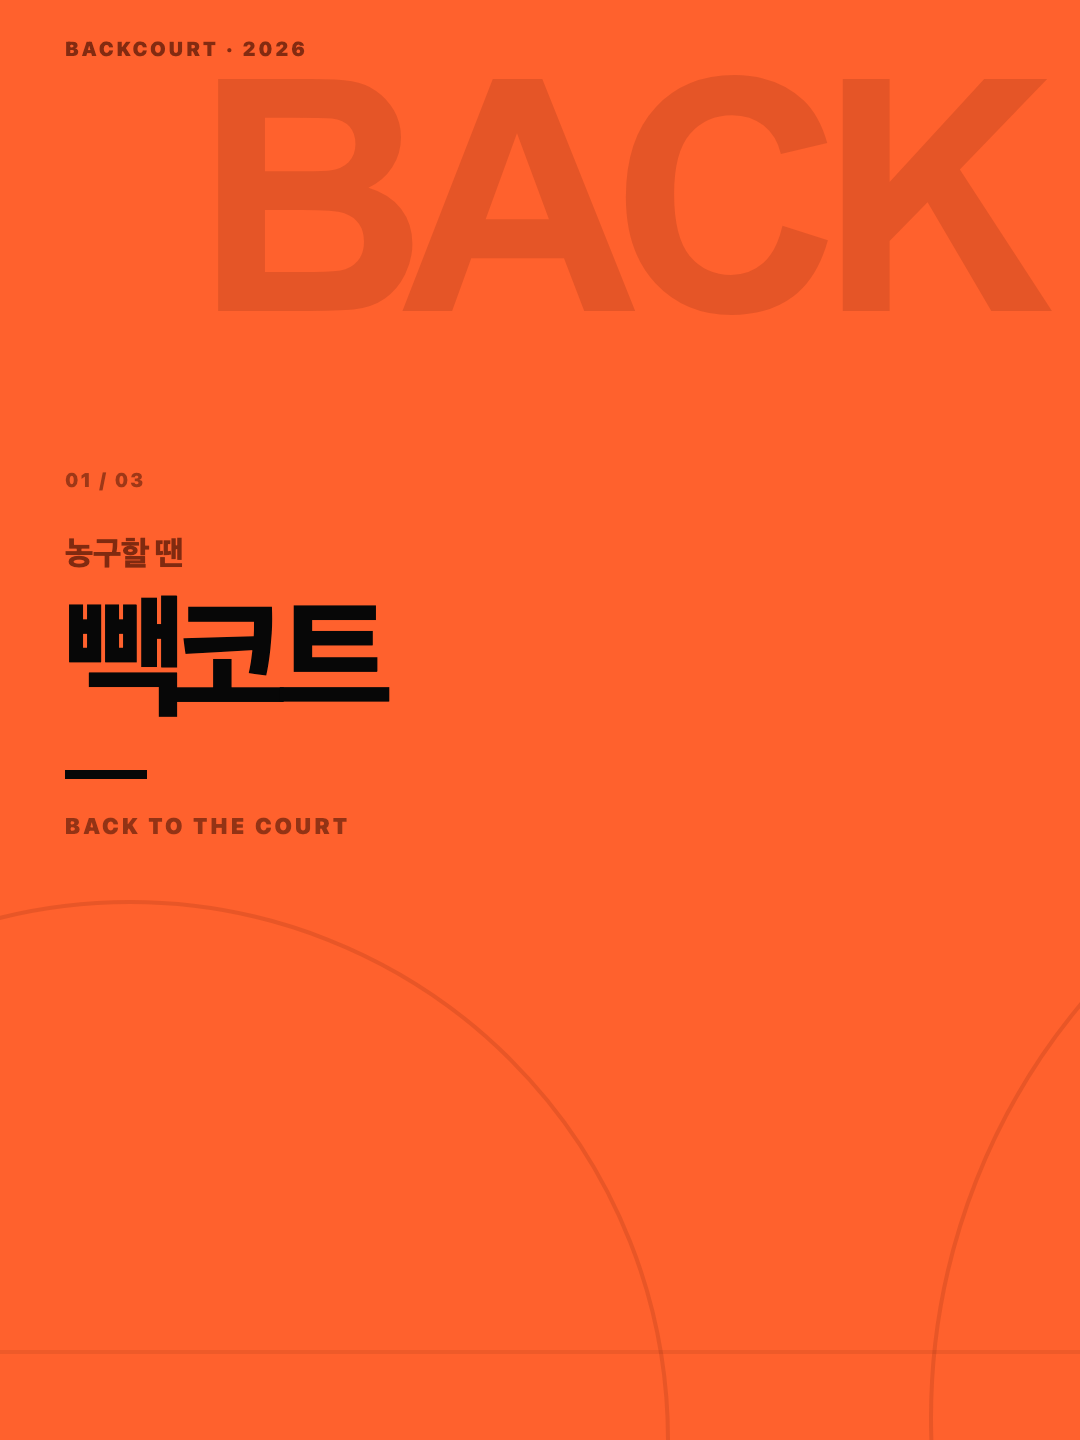
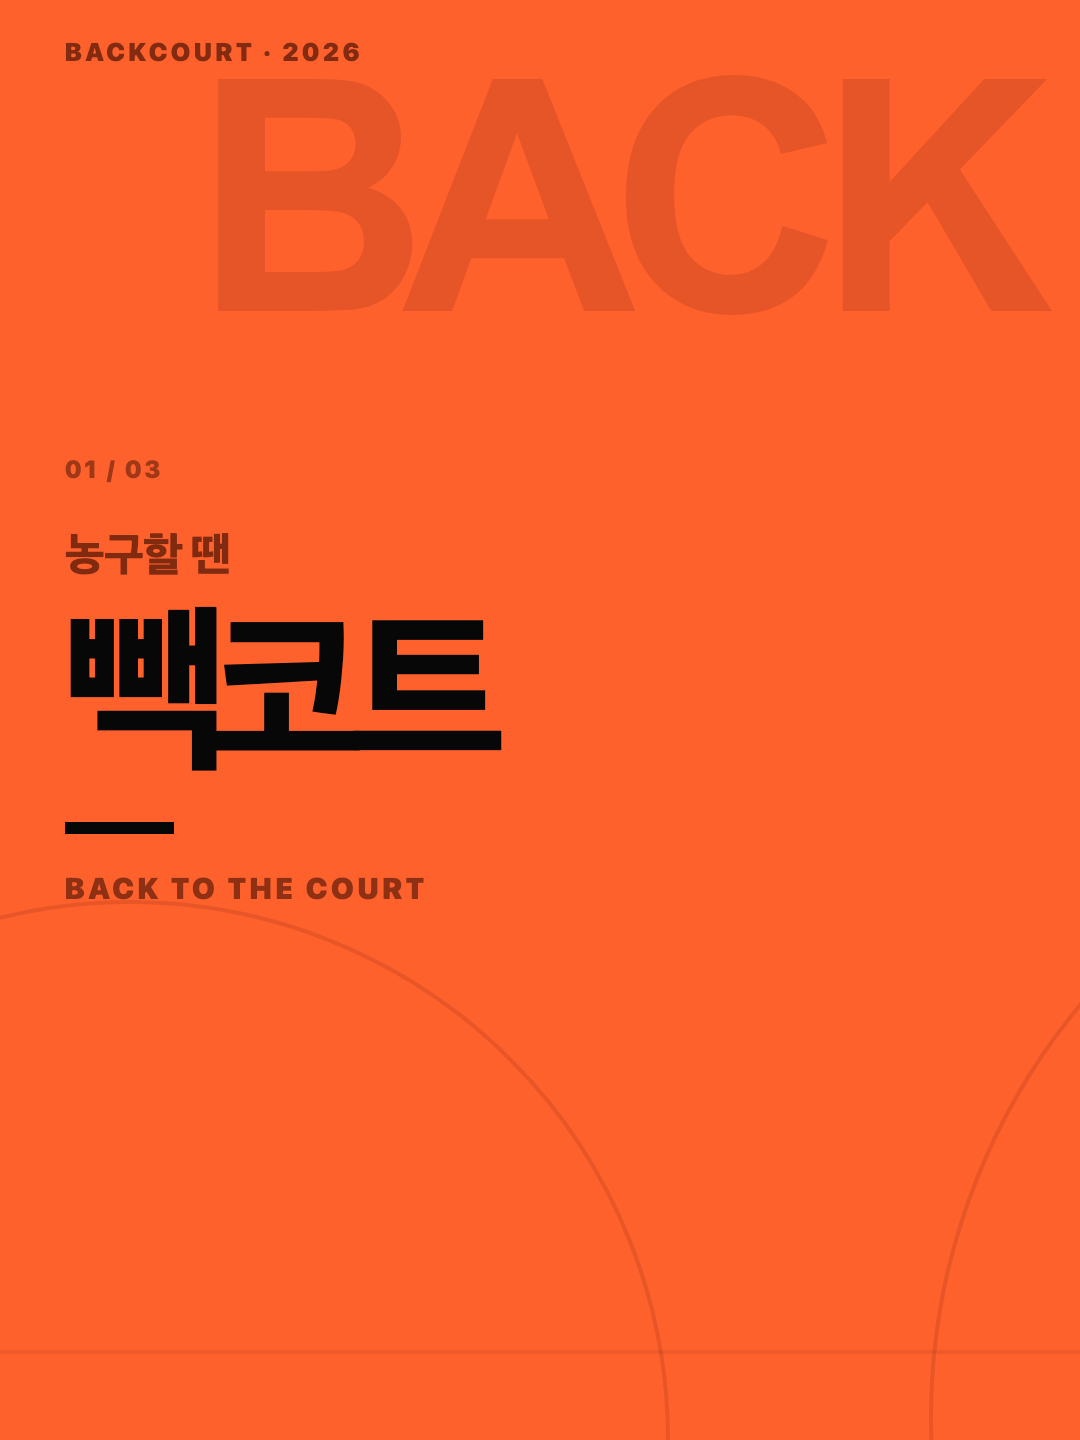
Improve triptych grid readability

Changed region(s): [[0.0611, 0.375, 0.4583, 0.625], [0.0611, 0.0312, 0.3361, 0.0625], [0.0611, 0.3125, 0.1528, 0.3438]]

diff --git a/Backcourt-Social/triptych.css b/Backcourt-Social/triptych.css
@@ -16,26 +16,26 @@ a { color: inherit; text-decoration: none; }
 .triptych-shell { width:100%; aspect-ratio:9/4; overflow:hidden; container-type:size; background:var(--orange); border:1px solid #292929; box-shadow:0 20px 50px rgba(0,0,0,.28); }
 .triptych { position:relative; width:100%; height:100%; overflow:hidden; color:var(--ink); background:var(--orange); letter-spacing:-.045em; }
 .mega-type { position:absolute; z-index:0; top:3.75cqh; left:13.5cqh; display:flex; align-items:flex-start; gap:6cqh; color:rgba(117,38,14,.19); font-family:Arial,"Apple SD Gothic Neo",sans-serif; font-size:22.5cqh; line-height:.9; font-weight:950; letter-spacing:-.08em; white-space:nowrap; }
-.platform { position:absolute; z-index:3; top:2.55cqh; right:5.25cqh; font-size:1.5cqh; font-weight:950; letter-spacing:.18em; }
-.edition { position:absolute; z-index:3; left:4.5cqh; top:2.55cqh; color:rgba(117,38,14,.9); font-size:1.38cqh; font-weight:950; letter-spacing:.15em; }
-.panel-number { position:absolute; z-index:3; top:32.5cqh; color:rgba(117,38,14,.7); font-size:1.35cqh; font-weight:900; letter-spacing:.12em; }
+.platform { position:absolute; z-index:3; top:2.55cqh; right:5.25cqh; font-size:1.9cqh; font-weight:950; letter-spacing:.16em; }
+.edition { position:absolute; z-index:3; left:4.5cqh; top:2.55cqh; color:rgba(117,38,14,.9); font-size:1.75cqh; font-weight:950; letter-spacing:.13em; }
+.panel-number { position:absolute; z-index:3; top:31.5cqh; color:rgba(117,38,14,.7); font-size:1.7cqh; font-weight:900; letter-spacing:.1em; }
 .panel-number.p1 { left:4.5cqh; }
 .panel-number.p2 { left:79.5cqh; }
 .panel-number.p3 { left:154.5cqh; }
-.left-copy { position:absolute; z-index:3; left:4.5cqh; top:37cqh; }
-.left-copy p { margin:0 0 1.15cqh; color:rgba(117,38,14,.92); font-size:2.3cqh; font-weight:900; }
-.left-copy h2 { margin:0; font-size:9.4cqh; line-height:.96; font-weight:950; letter-spacing:-.085em; }
-.left-copy i { width:5.7cqh; height:.62cqh; margin:3.4cqh 0 2.3cqh; display:block; background:var(--ink); }
-.left-copy span { color:rgba(117,38,14,.78); font-size:1.55cqh; font-weight:950; letter-spacing:.14em; }
+.left-copy { position:absolute; z-index:3; left:4.5cqh; top:36.5cqh; }
+.left-copy p { margin:0 0 1.2cqh; color:rgba(117,38,14,.92); font-size:3.2cqh; font-weight:900; }
+.left-copy h2 { margin:0; font-size:12.7cqh; line-height:.93; font-weight:950; letter-spacing:-.09em; }
+.left-copy i { width:7.6cqh; height:.82cqh; margin:3.5cqh 0 2.5cqh; display:block; background:var(--ink); }
+.left-copy span { color:rgba(117,38,14,.82); font-size:2.05cqh; font-weight:950; letter-spacing:.11em; }
 .hero-icon { position:absolute; z-index:3; left:84.5cqh; top:24cqh; width:56cqh; height:56cqh; object-fit:contain; transform:rotate(-3deg); filter:drop-shadow(2cqh 2.2cqh 0 rgba(117,38,14,.2)); }
-.right-copy { position:absolute; z-index:3; left:158.25cqh; top:35.5cqh; }
-.right-copy > p { margin:0 0 1.2cqh; color:rgba(117,38,14,.92); font-size:2.3cqh; font-weight:900; }
-.right-copy > h2 { margin:0; font-size:8.15cqh; line-height:.87; font-weight:950; letter-spacing:-.085em; }
-.launch { width:29.5cqh; height:7.2cqh; margin-top:4cqh; padding:0 1.9cqh; display:flex; align-items:center; gap:1.45cqh; background:var(--paper); box-shadow:.9cqh 1.05cqh 0 rgba(117,38,14,.18); }
-.launch img { width:3.15cqh; height:3.15cqh; object-fit:contain; }
+.right-copy { position:absolute; z-index:3; left:158.25cqh; top:34.5cqh; }
+.right-copy > p { margin:0 0 1.25cqh; color:rgba(117,38,14,.92); font-size:3.2cqh; font-weight:900; }
+.right-copy > h2 { margin:0; font-size:11.25cqh; line-height:.84; font-weight:950; letter-spacing:-.09em; }
+.launch { width:36cqh; height:9cqh; margin-top:4.3cqh; padding:0 2.3cqh; display:flex; align-items:center; gap:1.75cqh; background:var(--paper); box-shadow:1.1cqh 1.2cqh 0 rgba(117,38,14,.18); }
+.launch img { width:4cqh; height:4cqh; object-fit:contain; }
 .launch .apple-logo { filter:none; }
-.launch i { width:.14cqh; height:4cqh; margin-left:.22cqh; background:rgba(7,7,7,.18); }
-.launch strong { margin-left:.3cqh; font-size:1.85cqh; font-weight:950; white-space:nowrap; }
+.launch i { width:.17cqh; height:5.2cqh; margin-left:.25cqh; background:rgba(7,7,7,.18); }
+.launch strong { margin-left:.35cqh; font-size:2.4cqh; font-weight:950; white-space:nowrap; }
 .court-lines i, .court-lines b, .court-lines em { position:absolute; z-index:1; display:block; border:.28cqh solid rgba(117,38,14,.17); border-radius:50%; }
 .court-lines i { left:-28.5cqh; bottom:-37.5cqh; width:75cqh; height:75cqh; }
 .court-lines b { left:64.5cqh; bottom:-43.5cqh; width:90cqh; height:90cqh; }
